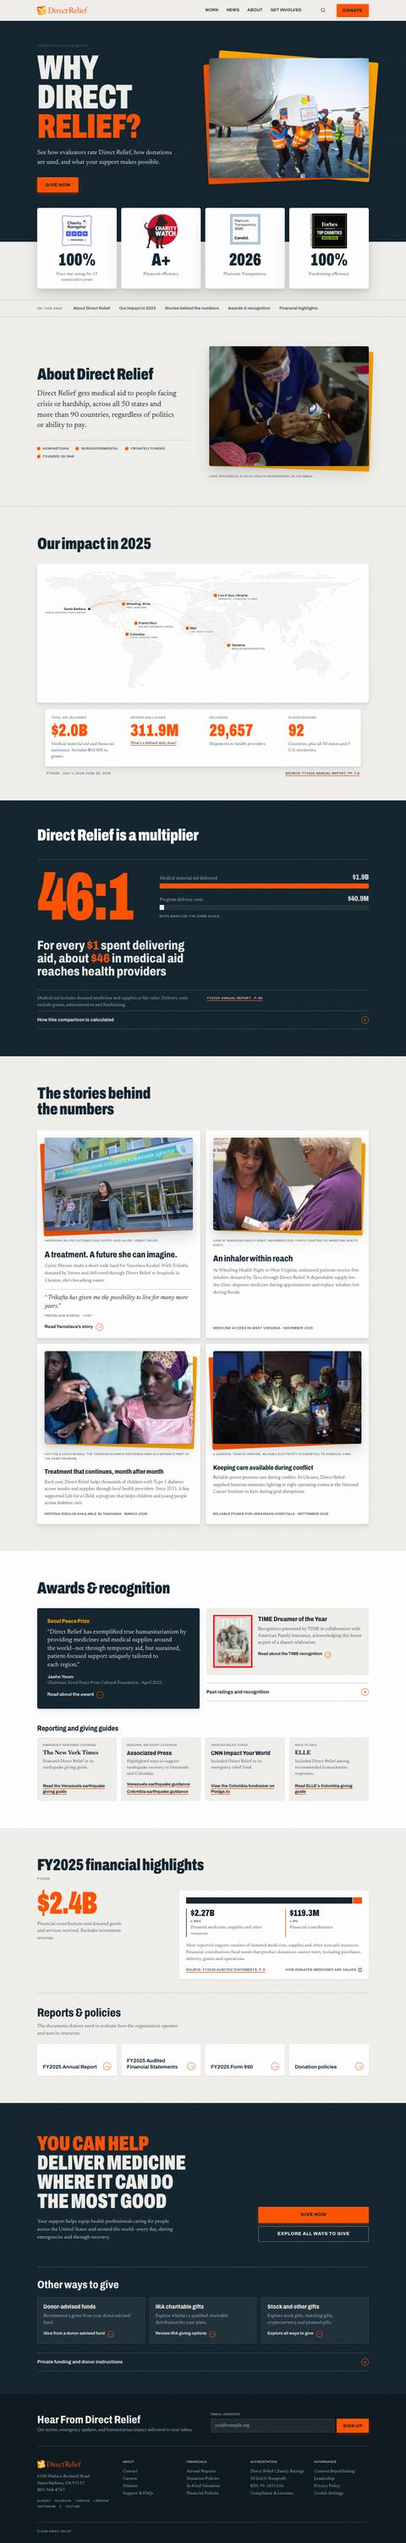
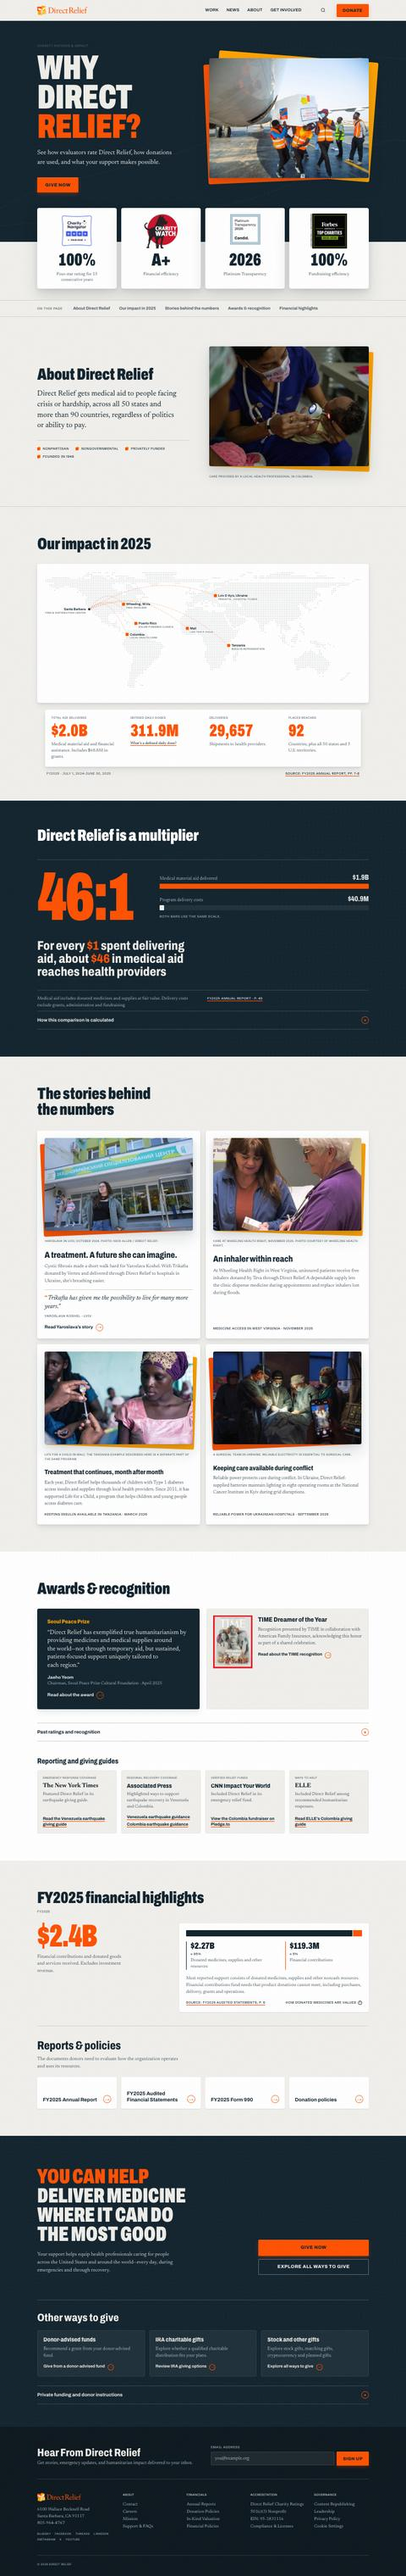
v6: move past ratings drawer below the award cards, full width

diff --git a/v6/index.html b/v6/index.html
@@ -357,7 +357,7 @@ p{margin:0}
 .recog{background:var(--surface);position:relative}
 .recog::before{content:"";position:absolute;inset:0;background-image:radial-gradient(rgba(16,34,45,.07) 1.1px,transparent 1.5px);background-size:16px 16px;-webkit-mask-image:linear-gradient(180deg,#000,transparent 40%);mask-image:linear-gradient(180deg,#000,transparent 40%);pointer-events:none}
 .recog .wrap{position:relative}
-.honors{margin-top:44px;display:grid;grid-template-columns:repeat(2,minmax(0,1fr));gap:24px;align-items:start}
+.honors{margin-top:44px;display:grid;grid-template-columns:repeat(2,minmax(0,1fr));gap:24px}
 @container site (max-width:900px){.honors{grid-template-columns:minmax(0,1fr)}}
 .honor{background:var(--paper);border-radius:6px;padding:24px;display:flex;flex-direction:column;gap:10px;box-shadow:inset 0 0 0 1px rgba(16,34,45,.06)}
 .honor h3{font-size:1.4rem;font-weight:800;font-stretch:85%;line-height:1.1}
@@ -377,7 +377,7 @@ p{margin:0}
 .honor.time img{flex:none;width:140px;height:auto}
 .honor.time>div{display:flex;flex-direction:column;gap:10px;padding-top:2px}
 .honor.time .arrow-link{margin-top:6px}
-.honor-side .archive{margin-top:0}
+.honor-side>.honor{flex:1}
 @container site (max-width:600px){.honor.time img{width:96px}.honor.time{gap:16px;padding:18px}}
 .honor .label{color:var(--orange-text)}
 .archive{margin-top:48px;border-top:1px solid var(--rule)}
@@ -720,6 +720,8 @@ body.notes .pin{display:block}
             <img src="img/time-dreamer-cover.png" alt="TIME magazine cover: Dreamer of the Year" width="140" height="188" loading="lazy">
             <div><h3>TIME Dreamer of the Year</h3><p>Recognition presented by TIME in collaboration with American Family Insurance, acknowledging this honor as part of a shared celebration.</p><a class="arrow-link sm" href="https://www.directrelief.org/2025/12/direct-relief-named-time-2025-dreamer-of-the-year/">Read about the TIME recognition <span class="c" aria-hidden="true">→</span></a></div>
           </div>
+        </div>
+      </div>
 
       <details class="drawer archive"><summary>Past ratings and recognition <span class="c" aria-hidden="true">+</span></summary>
         <div class="dr-in" style="max-width:none">
@@ -781,8 +783,6 @@ body.notes .pin{display:block}
           </div>
         </div>
       </details>
-        </div>
-      </div>
 
       <div class="press">
         <h3>Reporting and giving guides</h3>
